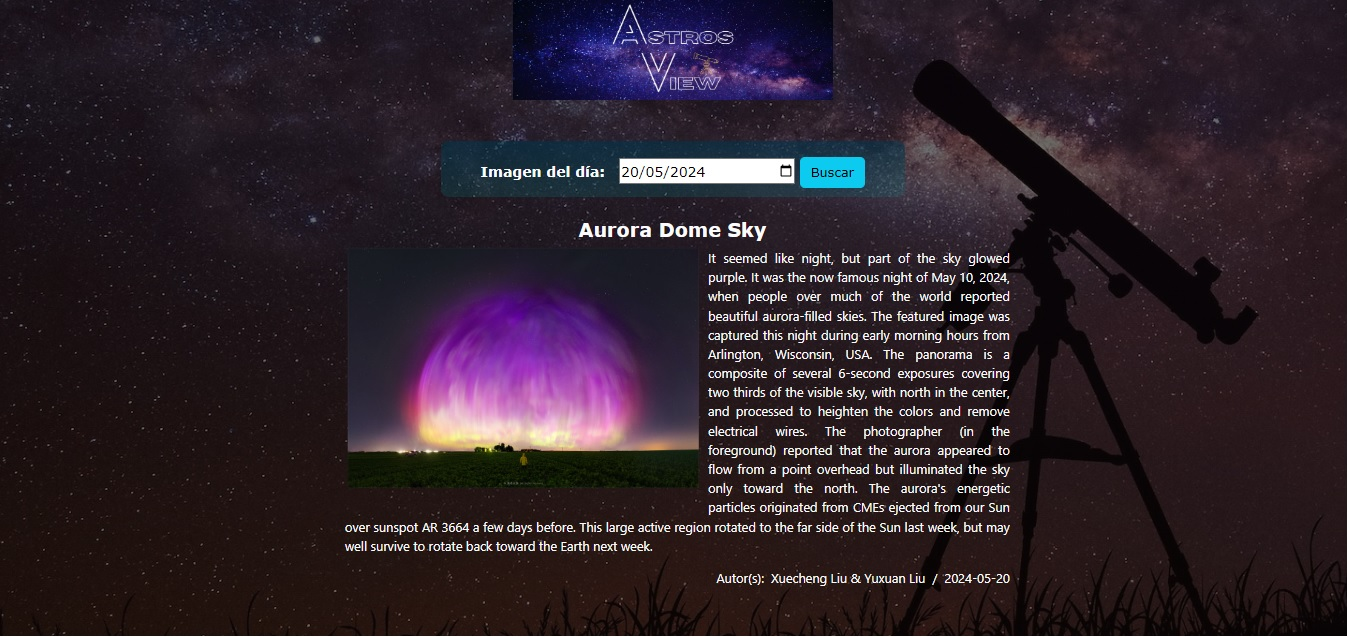
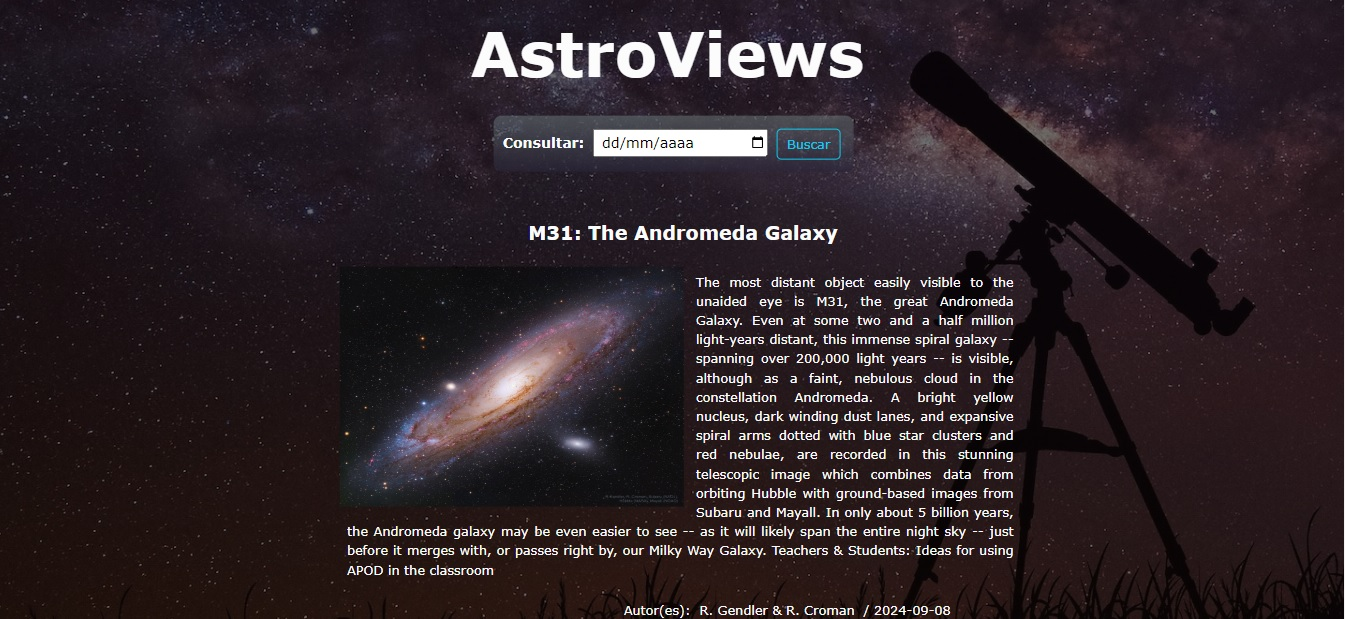
template update

diff --git a/browser/static/css/app.css b/browser/static/css/app.css
@@ -7,16 +7,26 @@ body{
 }
 
 #logo{
-    width: 300px;
-    height: 130px;
-    border-radius: 10px;
+    font-family: Verdana, Geneva, Tahoma, sans-serif;
+    font-weight: bold;
+    font-size: 2.2em;
+    -webkit-text-fill-color: transparent;
+    -webkit-text-stroke-width: 1px;
+    -webkit-text-stroke-color: rgb(252, 252, 252);
     text-align: center;
+    padding-top: 4px;
+    padding-bottom: 6px;
+}
+
+a{
+    text-decoration: none;
 }
 
 #browser{
-    background: linear-gradient(rgba(92, 70, 99, 0.6), rgba(37, 1, 41, 0.6));
+    border: 1px solid #fff;
     border-radius: 10px;
-    width: 565px;
+    backdrop-filter: blur(3px);
+    width: 450px;
     height: 70px;
 
     font-family: Verdana, Geneva, Tahoma, sans-serif;
@@ -26,17 +36,18 @@ body{
     align-content: center;
 
     position: relative;
-    left: -2%;
+    left: 0%;
     top: 8%;
-    transform: translate(4%, -6%);
+    transform: translate(0%, -6%);
 }
+
 
 .label{
     margin-right: 5px;
 }
 
 .date{
-    width: 215px;
+    width: 218px;
     height: 35px;
     padding-left: 10px;
 }
@@ -53,14 +64,27 @@ body{
     text-align: center;
     font-weight: bold;
     color:rgb(252, 252, 252);
-    padding-top: 30px;
+    padding-top: 18px;
     padding-bottom: 4px;
     position: relative;
     left: 46%;
-    top: 24%;
-    transform: translate(-45%, 18%);
+    top: 20%;
+    transform: translate(-45%, 14%);
 
 }
+
+.clearfix h6{
+    text-align: center;
+    font-weight: bold;
+    color:rgb(252, 252, 252);
+    padding-top: 14px;
+    padding-bottom: 2px;
+    position: relative;
+    left: 46%;
+    top: 16%;
+    transform: translate(-45%, 10%);
+}
+
 
 .clearfix img{
     width: 430px;
@@ -76,7 +100,7 @@ body{
     text-align: justify;
     padding-left: 10px;
     position: relative;
-    left: 47%;
+    left: 48%;
     top: 15%;
     transform: translate(-45%, 9%);
 }
@@ -97,9 +121,9 @@ footer{
     text-align: center;
     padding-bottom: 12px;
     position: relative;
-    top: 17%;
+    top: 11%;
     left: 0%;
-    transform: translate(3%, 18%);
+    transform: translate(1%, 12%);
 }
 
 #logonasa{

diff --git a/browser/templates/browser/base.html b/browser/templates/browser/base.html
@@ -22,9 +22,7 @@
 
 <body>
     <div class="container-fluid my-3" id="logo">
-        <figure>
-            <a href="{% url 'today' %}"><img src="{% static 'img/logo.jpg' %}" id="logo" alt="AstroViews"></a>
-        </figure>          
+        <h1 class="label" id="logo"><a href="{% url 'today' %}">AstrosView</a></h1>    
     </div>
 
     <nav>
@@ -32,7 +30,7 @@
             <form action="browser_set" method="get" autocomplete="off">
                 {% csrf_token %}
                 <div class="container-fluid my-3" id="browser">
-                    <label class="label">Seleccione una fecha:</label>
+                    <label class="label">Consultar:</label>
                     <input class="date" type="date" name="date" autofocus required>
                     <button type="submit" class="btn btn-outline-info">Buscar</button>   
                 </div>
@@ -52,6 +50,9 @@
           
 <!-- Footer -->
    <footer>
+        <div class="container my-3">
+            <p style="text-decoration: underline;">Fuente consultada</p>
+        </div>
         <div class="container my-3">
             <img src="{% static 'img/nasalogo.png' %}" id="logonasa" alt="Nasa">
         </div>

diff --git a/browser/templates/browser/index.html b/browser/templates/browser/index.html
@@ -11,13 +11,14 @@
   <section>
     <div class="clearfix my-1" id="cards">
       <h4 class="col-md-12">{{query.title}}</h4>
-        <img src="{{query.url}}"  class="col-md-10 float-md-start mb-1 ms-md-3" alt="{{query.title}}">
-          <p class="col-md-6">
-            {{query.explanation}}
-          </p>
-          <p class="col-md-5" id="copyright">
-            Autor(es):&nbsp;{{query.copyright}}&nbsp;/&nbsp;{{query.date}}
-          </p>
+      <h6>{{query.date}}</h6>
+      <img src="{{query.url}}"  class="col-md-10 float-md-start mb-1 ms-md-3" alt="{{query.title}}">
+      <p class="col-md-6">
+        {{query.explanation}}
+      </p>
+      <p class="col-md-5" id="copyright">
+        Autor(s):&nbsp;{{query.copyright}}
+      </p>
     </div>
   </section>
 {% endblock %}
